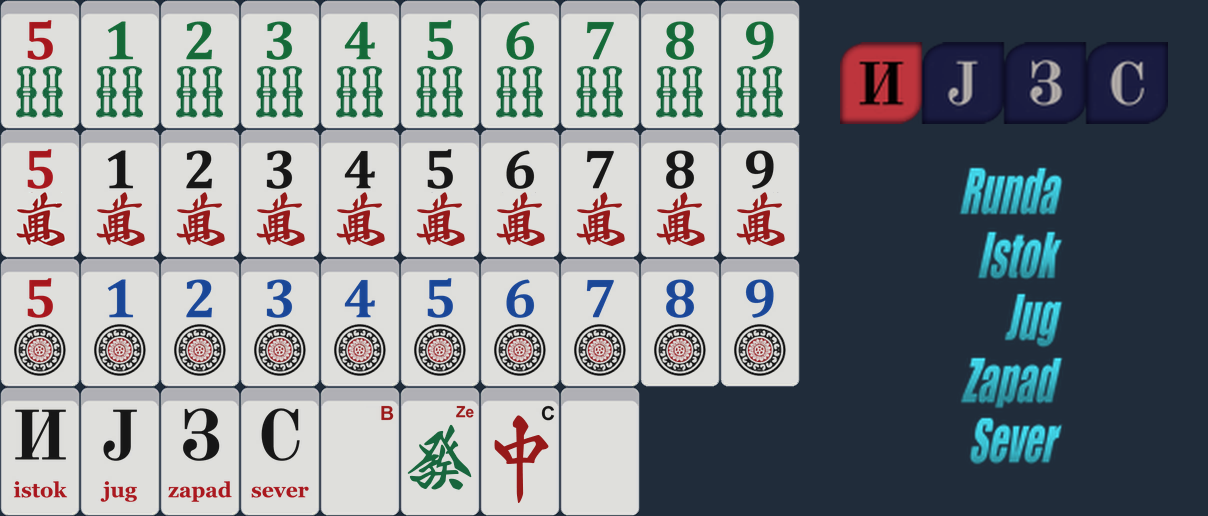
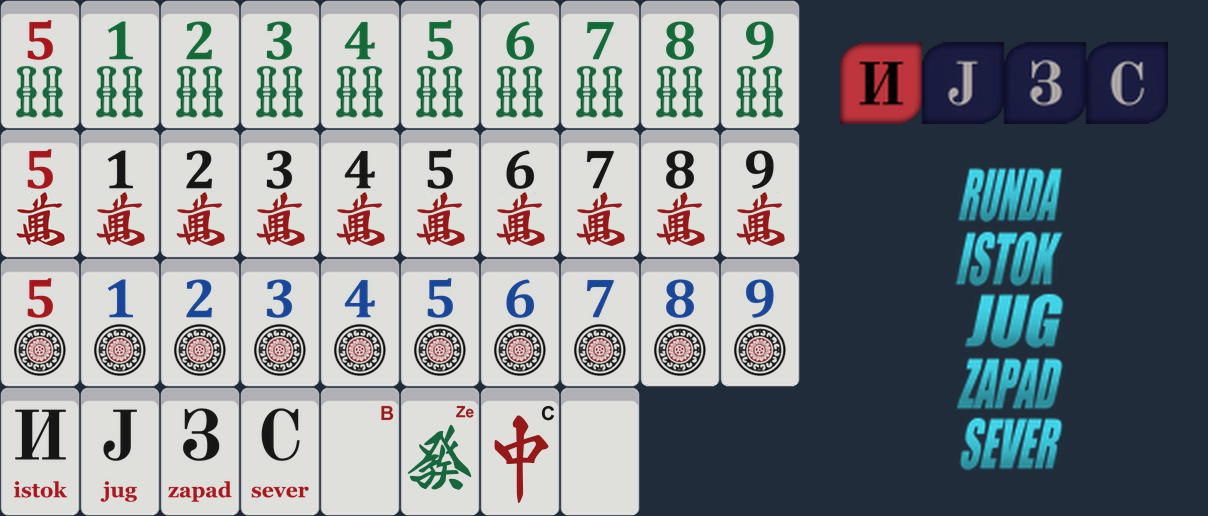
Serbian edition: uppercase round words that fill their slot next to the round number

Changed region(s): [[0.7657, 0.3101, 0.8882, 0.9302]]

diff --git a/README.md b/README.md
@@ -49,7 +49,8 @@ Close the game and run `uninstall.bat` (Windows) or `bash uninstall.sh` (Linux).
 <summary>Serbian edition</summary>
 
 Same number tiles, plus Serbian winds (И Ј З С with istok / jug / zapad / sever), B / Ze / C dragon
-labels when "Show Tile Indexes" is on, and a Serbian table centre (English game client only).
+labels when "Show Tile Indexes" is on, and a Serbian table centre (RUNDA / ISTOK / JUG / ZAPAD / SEVER,
+English game client only).
 Download `MahjongSoul_NumberTiles_Serbian.zip` from the same release. It installs and uninstalls
 the same way, and you can switch between the two versions freely.
 
